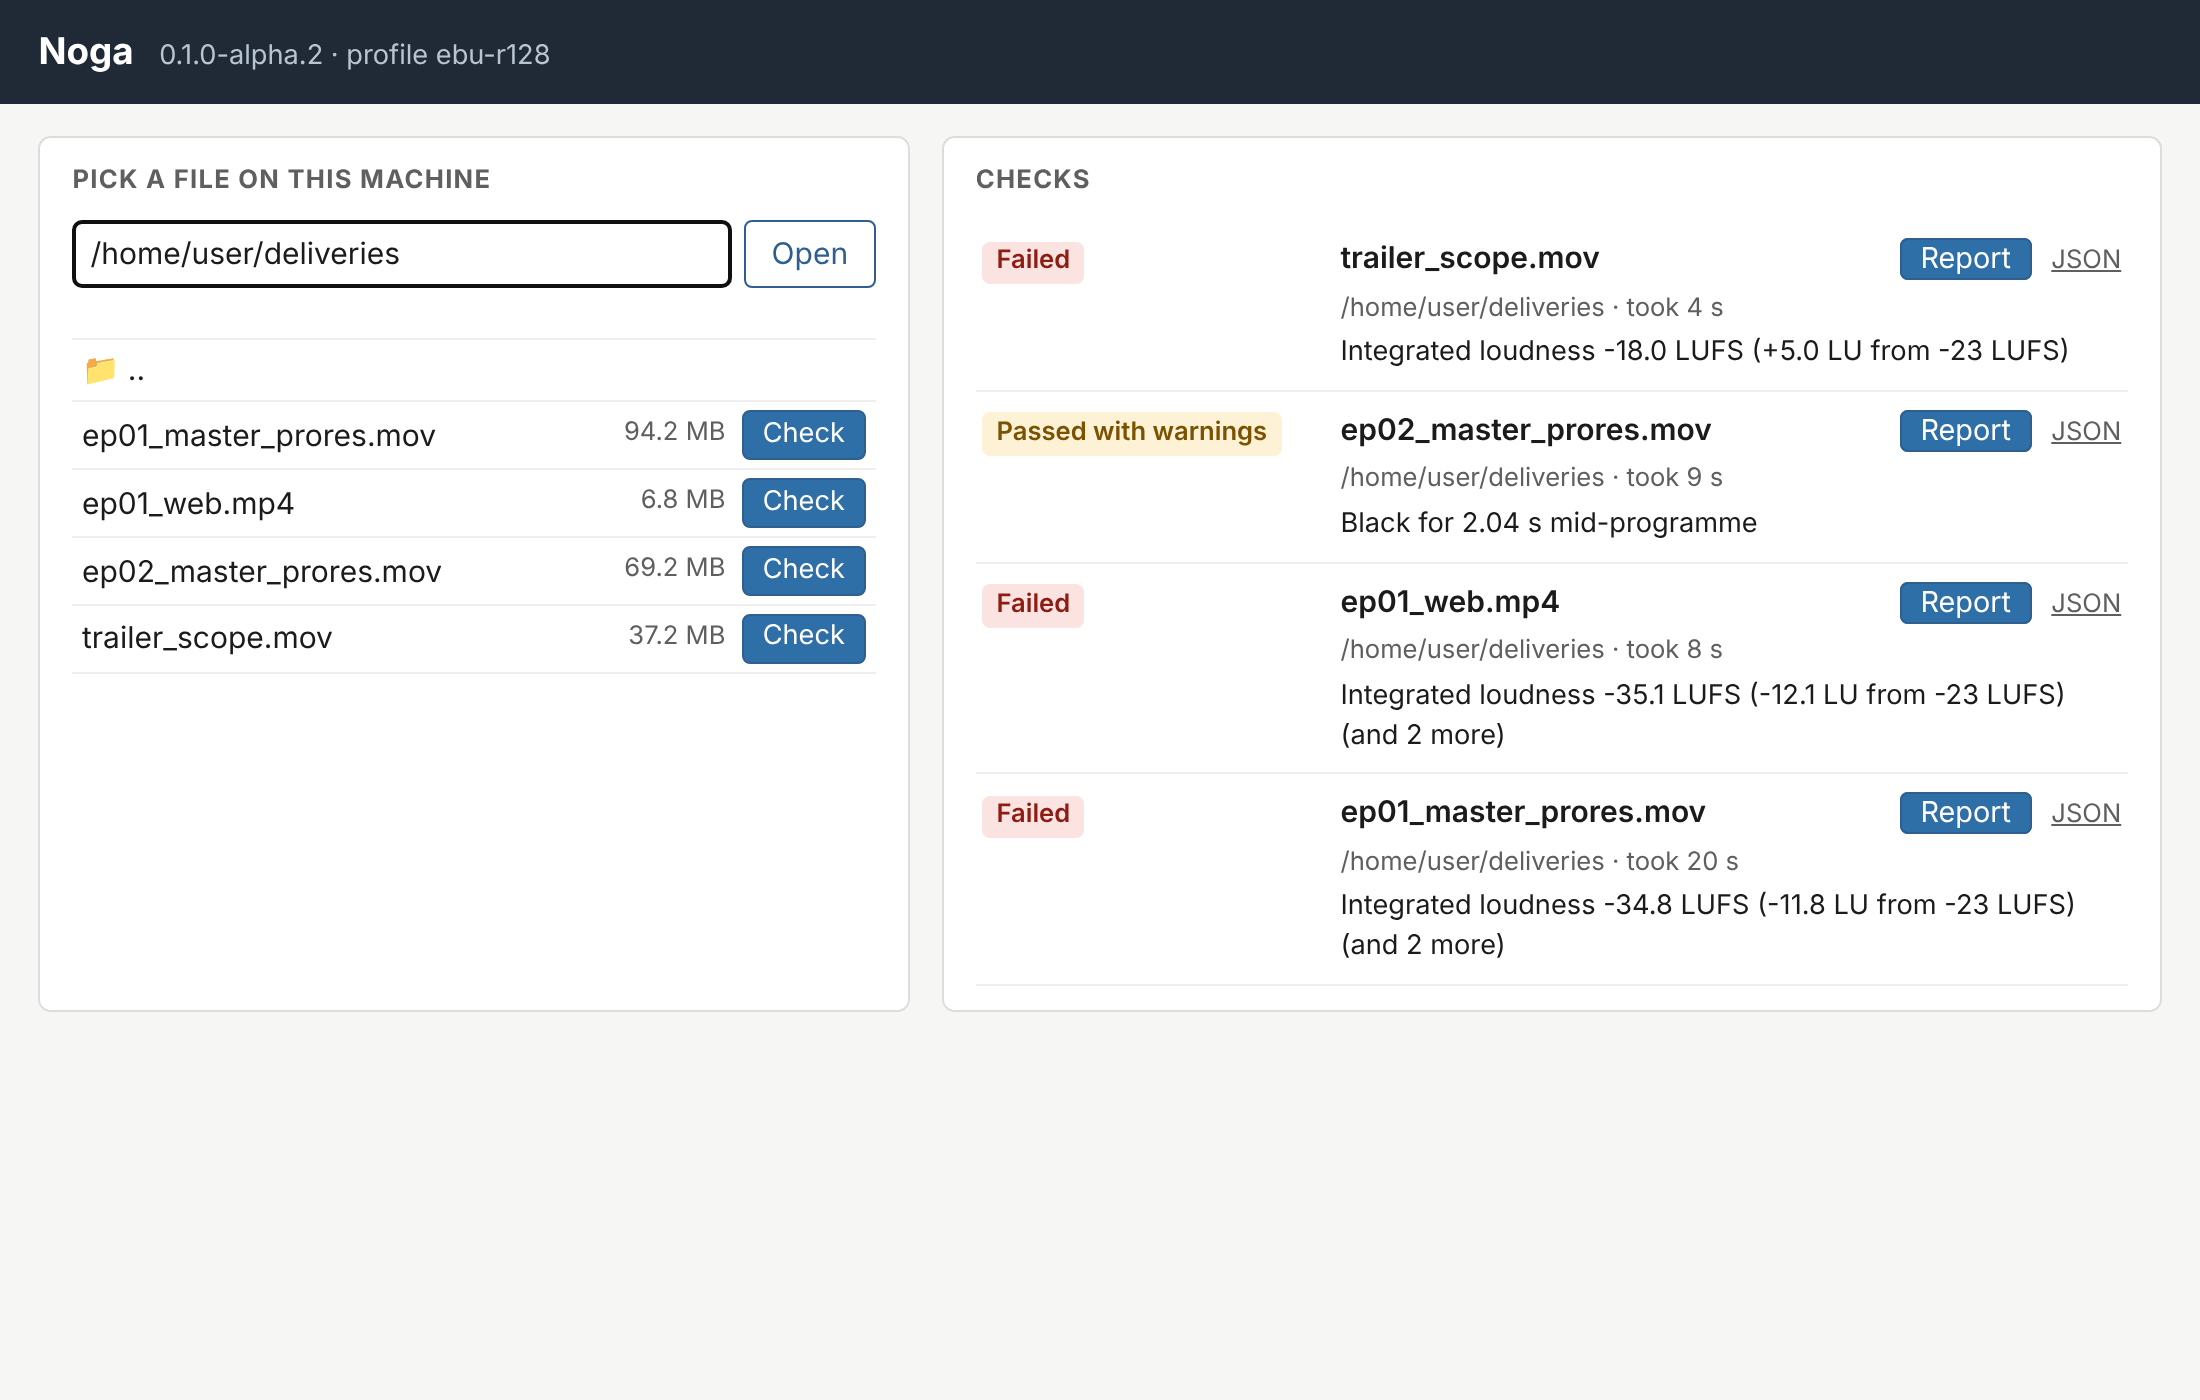
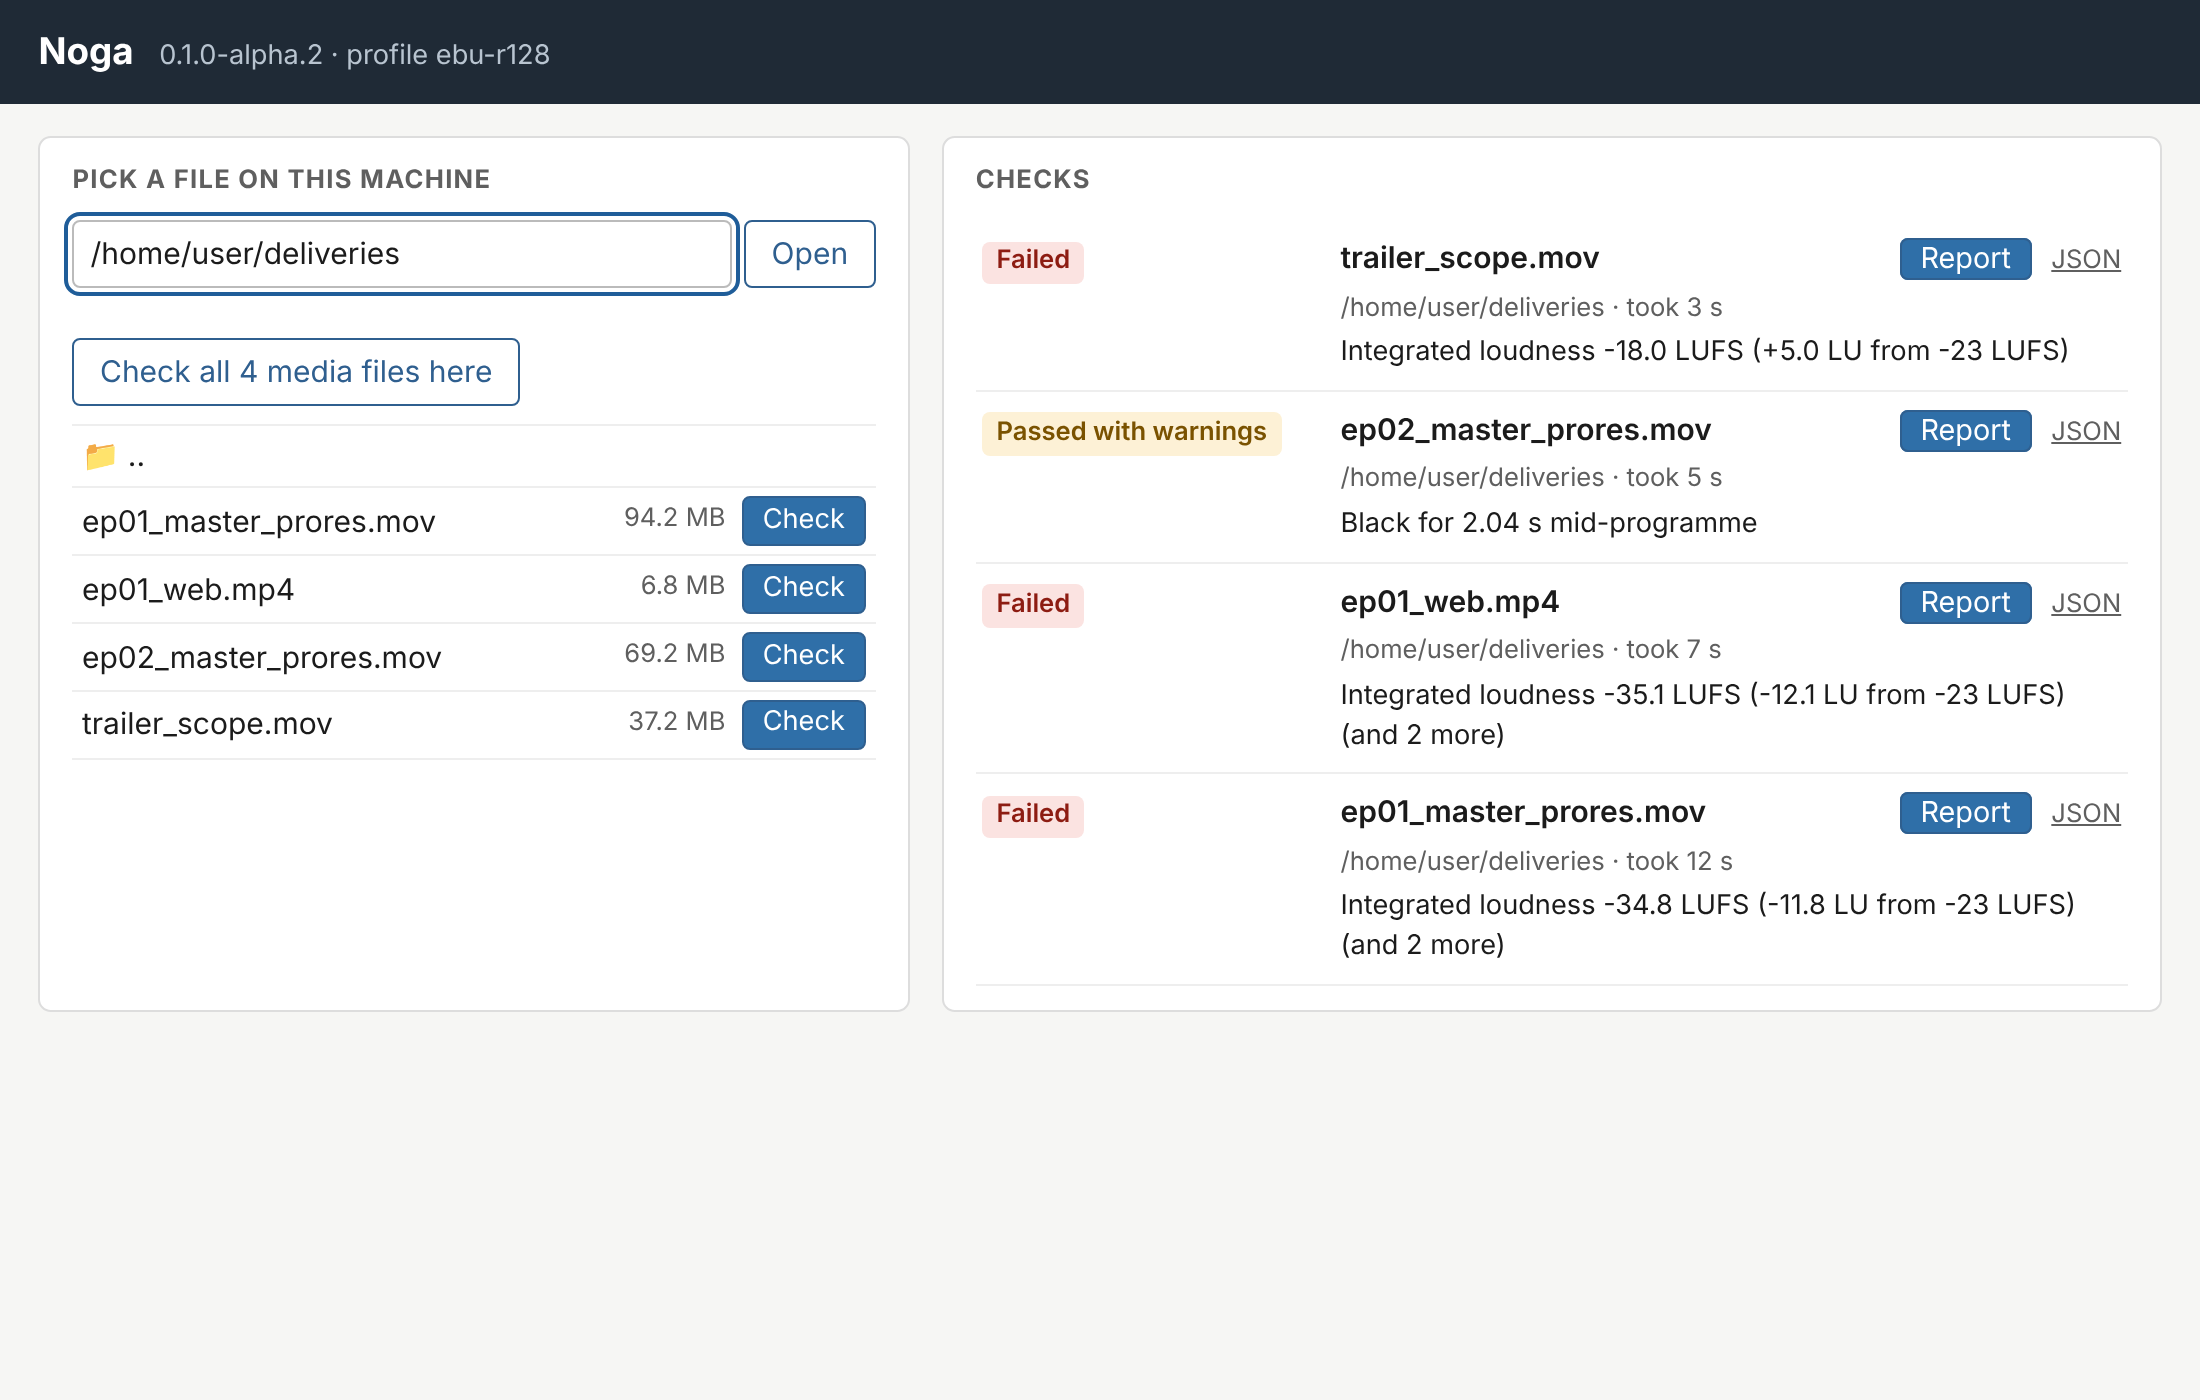
Web UI gaps: decision, backlog, CLAUDE.md, README screenshot
Claude-Session: https://claude.ai/code/session_015S5PSMNnZM1TYzSRVFoa1F

diff --git a/docs/decisions/2026-11-04-web-ui-gaps.md b/docs/decisions/2026-11-04-web-ui-gaps.md
@@ -1,0 +1,26 @@
+# The web UI's usability gaps
+
+Asked 2026-11-04, after the job rows were merged (decisions/2026-11-04-job-rows.md): which of the UI review's three
+remaining backlog items next.
+
+- **The web UI's gaps** (recommended): folders reachable by keyboard, a bad path clears the old listing, feedback on
+  Check and no duplicate checks, no Check on non-media files, "check all in this folder"
+- Raw values in findings ("-Infinity dBTP", "?/?/bt709")
+- The app's drop zone and narrow window
+- Stop here
+
+**Answer: the web UI's gaps.**
+
+## What was built
+
+- Folders and ".." are buttons, so Tab reaches them and Enter opens them; buttons, links and the path field show a
+  focus ring.
+- A path that can't be opened clears the listing under it (it read as that path's empty folder) and says why, the
+  message announced to screen readers (`role="alert"`).
+- Only media files have a Check button. It says "Queued" or "Measuring…" (the shared labels) and is disabled while the
+  file's check waits or runs, from the moment it is pressed.
+- `Jobs.Add` returns the job already queued or measuring for the same file rather than adding another, so a double
+  press, "Check all" over a file already queued, or the watched folder can't check a file twice at once (the web UI
+  and the app alike); once done, it can be checked again.
+- "Check all N media files here" above a listing with two or more.
+- The README's screenshot of the web UI is redone.

diff --git a/CLAUDE.md b/CLAUDE.md
@@ -132,7 +132,7 @@ What is next, in order: docs/backlog.md.
   network (`ServeOptions.Shared`: only the `--root` folders, `Roots`, and only with the token link's cookie;
   decisions/2026-11-01-shared-machine.md; HTTPS unless `--http`, `Certificates`: --cert's, else a self-signed one kept in
   the user's profile, its fingerprint printed: decisions/2026-11-03-shared-https.md), ASP.NET Core minimal APIs and one page (`Serve/index.html`, embedded): `Folders` lists the
-  machine's folders to pick files in, `Jobs` runs their checks one at a time (reports beside each file), `/api/events`
+  machine's folders to pick files in, `Jobs` runs their checks one at a time (reports beside each file; a file already queued or measuring isn't queued again: decisions/2026-11-04-web-ui-gaps.md), `/api/events`
   streams them (server-sent events), `Watcher` scans a watched folder every 2 s and queues its media files without a
   report once they have settled for 5 s (copied); `Server`'s guard refuses other Hosts (localhost) or requests without the token (shared), and changes without the
   X-Noga header or from another Origin.

diff --git a/docs/backlog.md b/docs/backlog.md
@@ -18,12 +18,6 @@ Status: **Open**, **In progress**, **Waiting**, **Maybe**; finished (in backlog-
     10 minutes (ProRes HQ about 17 s a minute on 4 cores, flat memory), and the worst found is fixed (memory that grew
     with a QuickTime PCM file's length, 1.9 GB for 10 minutes). Still to do: the open films, and the figure in the README
 
-- The web UI's usability gaps
-  - Why: the same review: folders and ".." aren't keyboard-reachable (spans), a bad path leaves the old listing under
-    it, Check gives no feedback and queues duplicates, non-media files get a Check button, no "check all in this
-    folder" (its dark mode and its grey text's contrast came with decisions/2026-11-04-status-style.md)
-  - Status: Open
-
 - Raw values in findings
   - Why: the same review: a silent file's true peak reads "-Infinity dBTP" and passes; the format line shows ffprobe's
     unknown colour values as "?/?/bt709"

diff --git a/docs/backlog-done.md b/docs/backlog-done.md
@@ -202,3 +202,9 @@ Finished items from [backlog.md](backlog.md), oldest first.
     the web UI's badges don't line up and only it shows the elapsed time. A one-line reason (the first failure or
     warning), the folder instead of the path, a short error, elapsed time in both, "Report" as the main action
   - Status: Done (2026-11-04: `QcReport.Reason`, `Job.ShortError`, decisions/2026-11-04-job-rows.md)
+
+- The web UI's usability gaps
+  - Why: the same review: folders and ".." aren't keyboard-reachable (spans), a bad path leaves the old listing under
+    it, Check gives no feedback and queues duplicates, non-media files get a Check button, no "check all in this
+    folder" (its dark mode and its grey text's contrast came with decisions/2026-11-04-status-style.md)
+  - Status: Done (2026-11-04: decisions/2026-11-04-web-ui-gaps.md)
